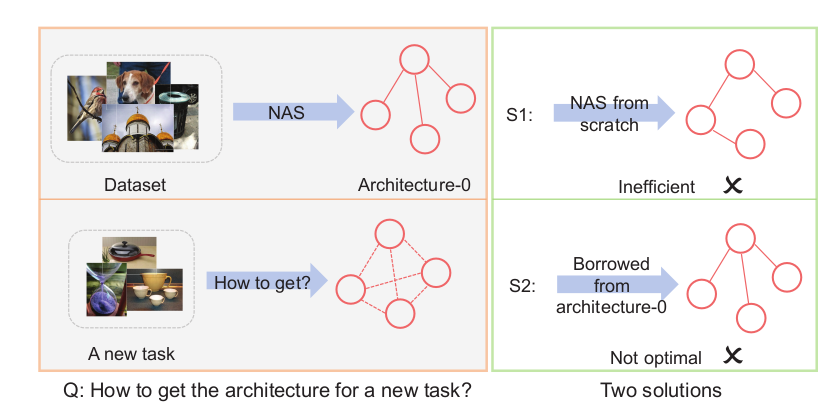
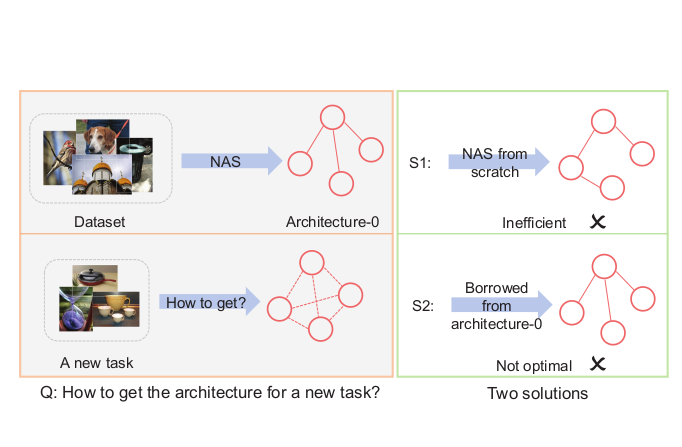
fix typo and img size

Changed region(s): [[0.0308, 0.0625, 0.9853, 0.9688]]

diff --git a/content/publication/example/index.md b/content/publication/example/index.md
@@ -1,5 +1,5 @@
 ---
-title: "Towards Fast Adaptation of Neural Architectures with Meta Learningr"
+title: "Towards Fast Adaptation of Neural Architectures with Meta Learning"
 
 # Authors
 # If you created a profile for a user (e.g. the default `admin` user), write the username (folder name) here 
